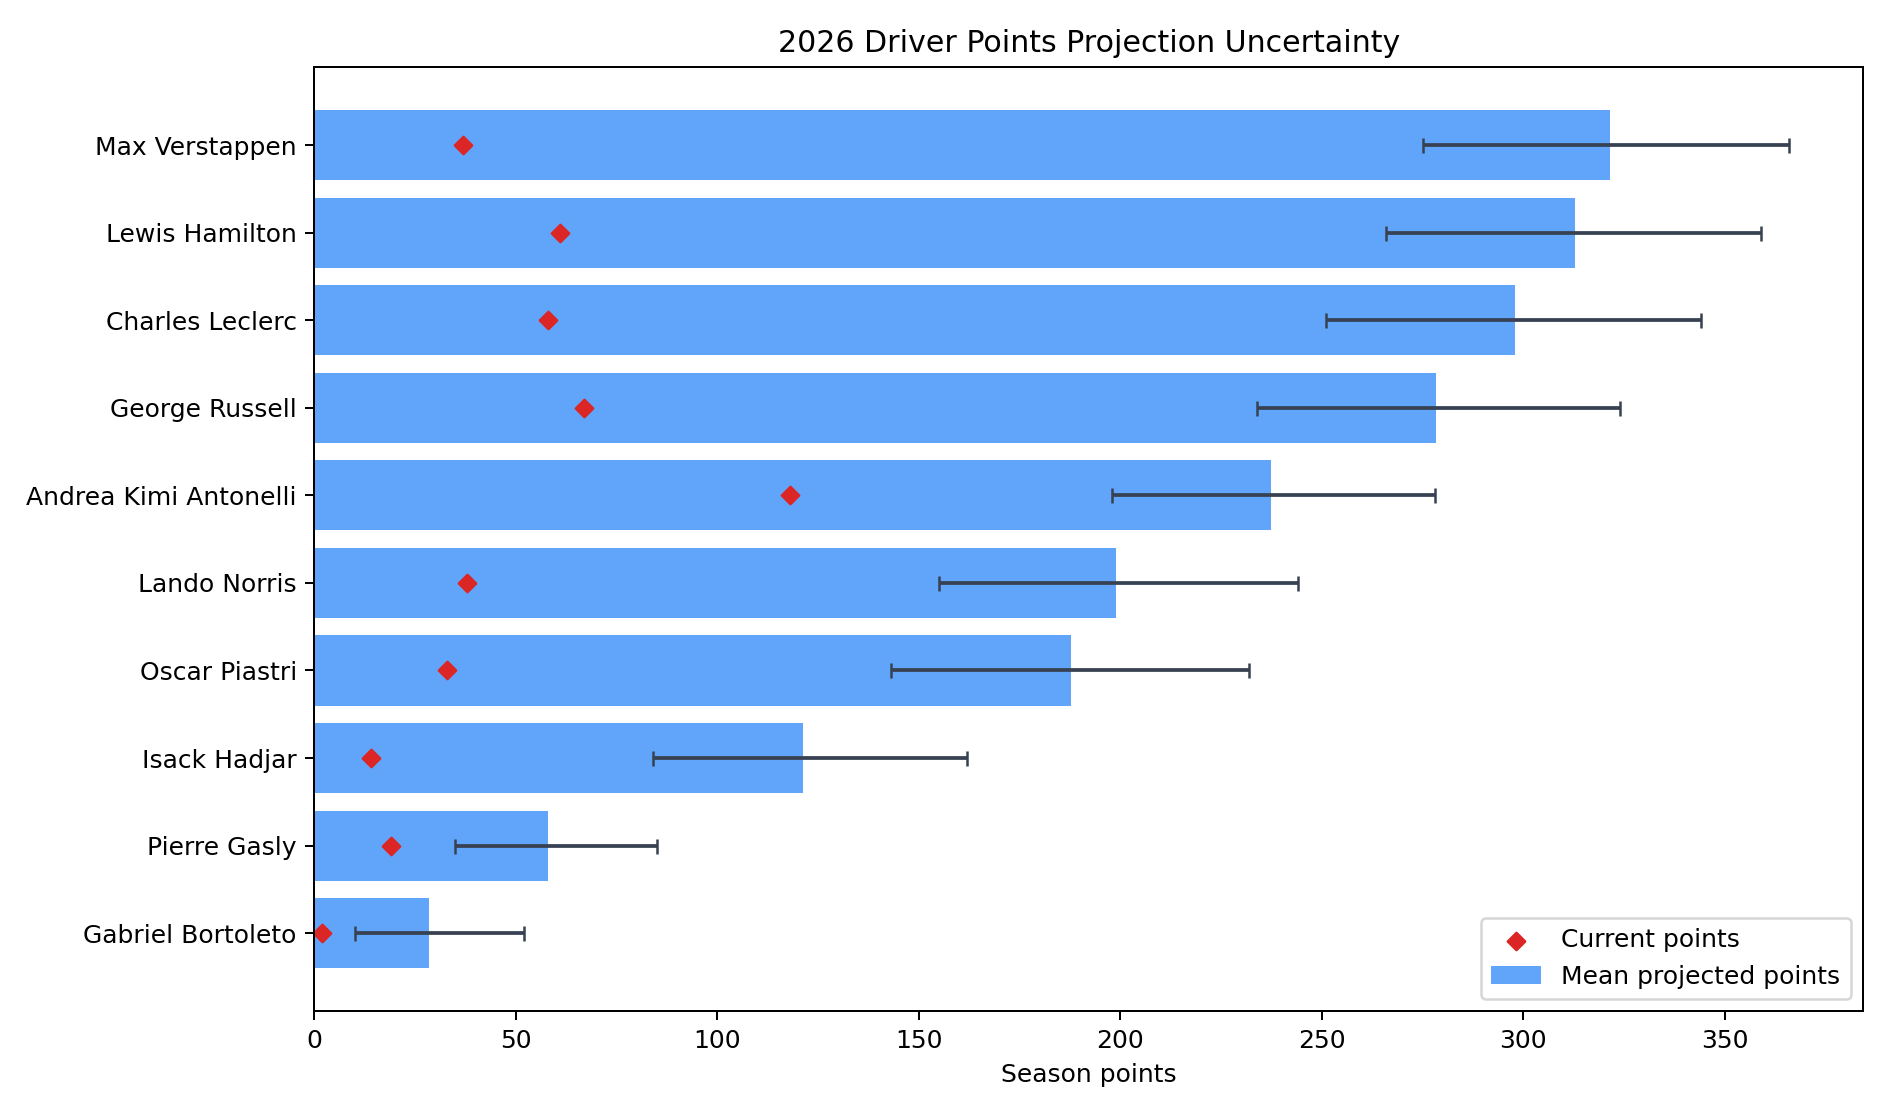
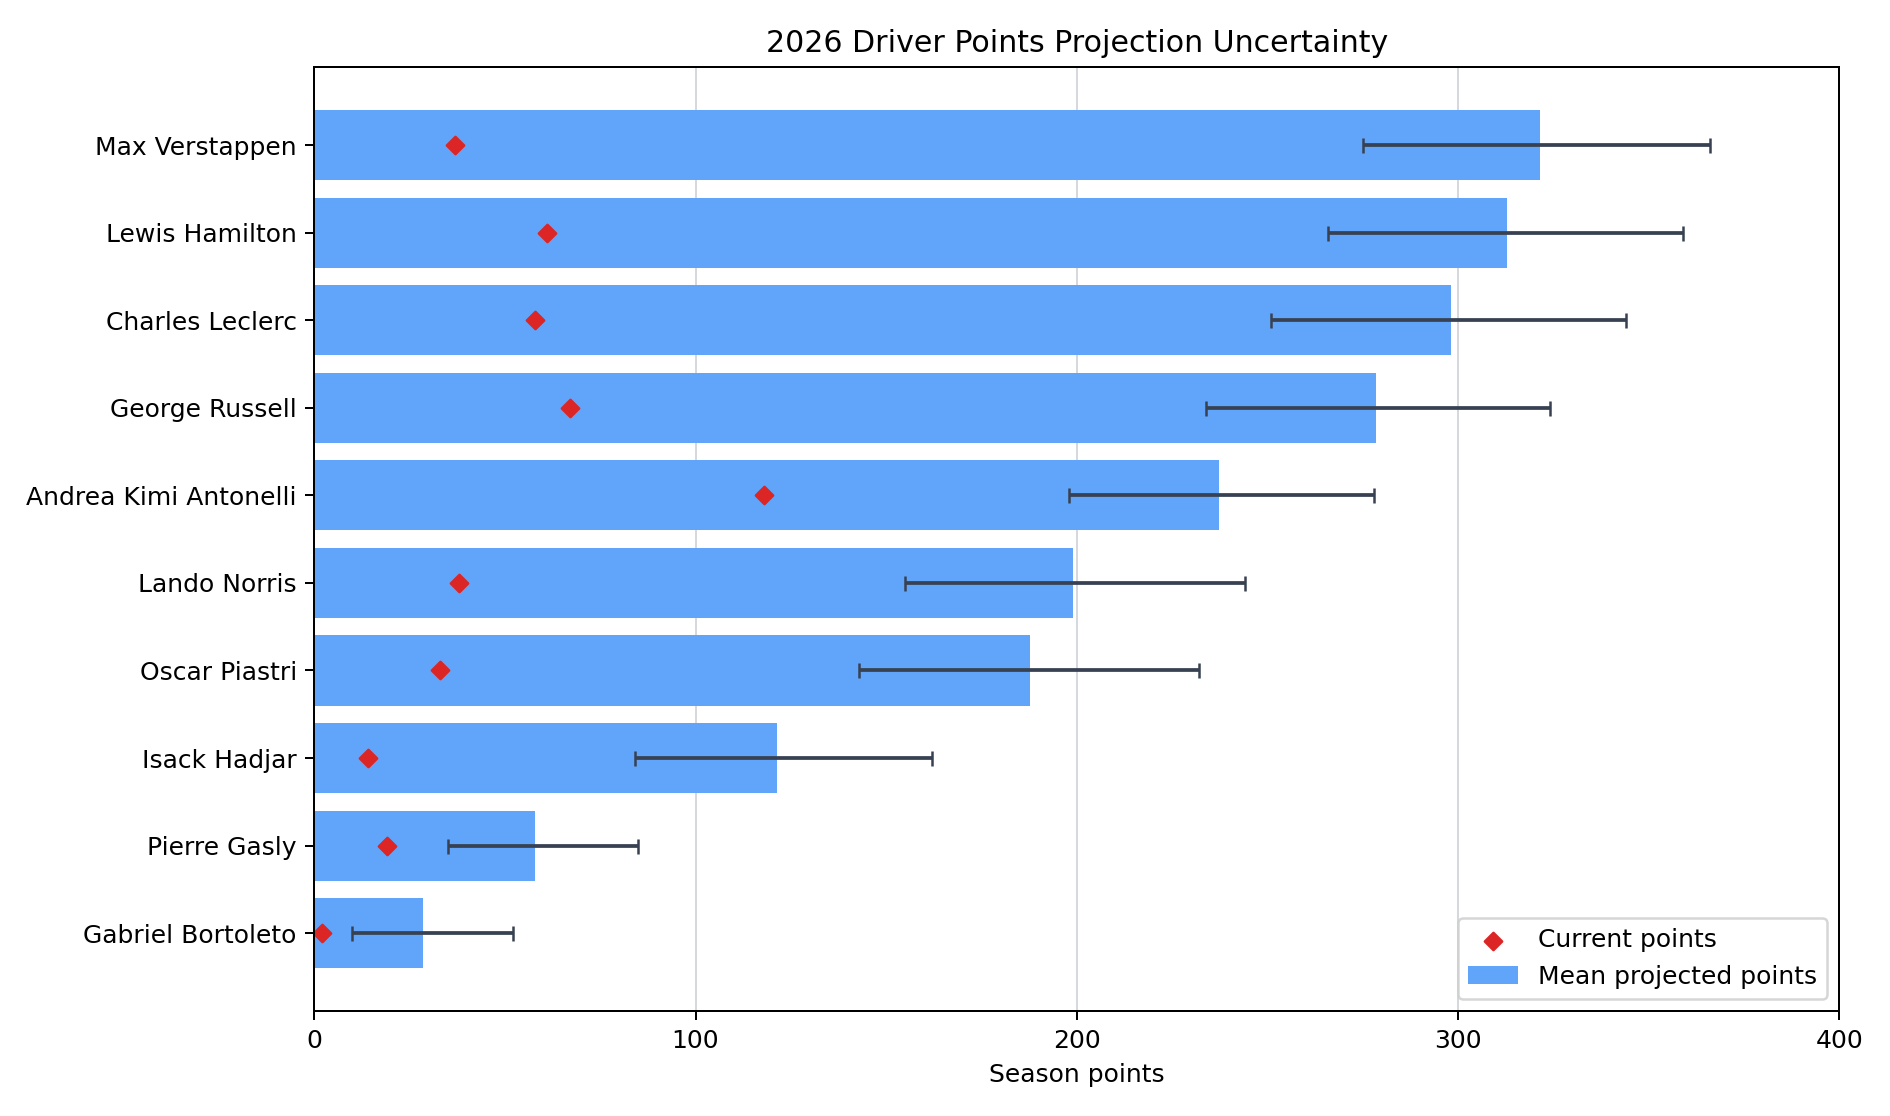
Add per-scenario 2026 prediction figures

diff --git a/predict_f1_2026_championship.py b/predict_f1_2026_championship.py
@@ -773,6 +773,12 @@ def save_points_uncertainty_chart(rows, label_field, filename, title):
     ax.scatter(current, labels, color="#DC2626", marker="D", s=24, label="Current points")
     ax.set_xlabel("Season points")
     ax.set_title(title)
+    upper_limit = max(float(np.max(p95)) if len(p95) else 0.0, float(np.max(means)) if len(means) else 0.0)
+    tick_max = int(np.ceil(upper_limit / 100.0) * 100)
+    if tick_max >= 100:
+        ax.set_xticks(np.arange(0, tick_max + 100, 100))
+    ax.grid(axis="x", color="#D1D5DB", linewidth=0.8, alpha=0.9)
+    ax.set_axisbelow(True)
     ax.legend(loc="lower right")
     fig.tight_layout()
     output_path = FIGURE_DIR / filename
@@ -950,6 +956,7 @@ def main():
     scenario_constructor_rows = []
     scenario_race_rows = []
     scenario_summary_rows = []
+    scenario_results = []
     primary_result = None
 
     for scenario in scenarios:
@@ -985,6 +992,13 @@ def main():
         scenario_race_rows.extend(add_scenario_fields(deterministic_race_rows, scenario))
         scenario_summary_rows.extend(
             build_scenario_summary_rows(driver_rows, constructor_rows, scenario)
+        )
+        scenario_results.append(
+            {
+                "scenario": scenario,
+                "driver_rows": driver_rows,
+                "constructor_rows": constructor_rows,
+            }
         )
 
         if scenario["scenario_rank"] == 1:
@@ -1047,6 +1061,43 @@ def main():
         ),
         save_model_scenario_comparison_chart(scenario_summary_rows),
     ]
+    for result in scenario_results:
+        scenario = result["scenario"]
+        scenario_rank = scenario["scenario_rank"]
+        scenario_label = (
+            f"Scenario {scenario_rank}: "
+            f"{scenario['top10_model']} + {scenario['points_model']}"
+        )
+        figure_paths.extend(
+            [
+                save_champion_probability_chart(
+                    result["driver_rows"],
+                    "driver_name",
+                    "champion_probability",
+                    f"season_prediction_s{scenario_rank}_driver_champion_2026.png",
+                    f"2026 Driver Champion Probability - {scenario_label}",
+                ),
+                save_champion_probability_chart(
+                    result["constructor_rows"],
+                    "constructor_name",
+                    "champion_probability",
+                    f"season_prediction_s{scenario_rank}_constructor_champion_2026.png",
+                    f"2026 Constructor Champion Probability - {scenario_label}",
+                ),
+                save_points_uncertainty_chart(
+                    result["driver_rows"],
+                    "driver_name",
+                    f"season_prediction_s{scenario_rank}_driver_points_uncertainty_2026.png",
+                    f"2026 Driver Points Projection - {scenario_label}",
+                ),
+                save_points_uncertainty_chart(
+                    result["constructor_rows"],
+                    "constructor_name",
+                    f"season_prediction_s{scenario_rank}_constructor_points_uncertainty_2026.png",
+                    f"2026 Constructor Points Projection - {scenario_label}",
+                ),
+            ]
+        )
     update_model_figure_manifest(
         [
             str(DRIVER_OUTPUT_PATH.relative_to(BASE_DIR)),

diff --git a/outputs/OUTPUTS_DESCRIPTION.md b/outputs/OUTPUTS_DESCRIPTION.md
@@ -595,3 +595,24 @@ Use in report: final constructor standings uncertainty analysis.
 Compares 2026 driver and constructor champion probabilities across the top three pre-race model scenarios. Each scenario pairs the same-rank Top 10 classifier and points regressor from prior validation metrics.
 
 Use in report: robustness comparison of final championship predictions under different high-performing model choices.
+
+#### Per-Scenario 2026 Prediction Figures
+
+The following figures repeat the same four final-prediction views for each top-three model scenario:
+
+- [`figures/season_prediction_s1_driver_champion_2026.png`](figures/season_prediction_s1_driver_champion_2026.png)
+- [`figures/season_prediction_s1_constructor_champion_2026.png`](figures/season_prediction_s1_constructor_champion_2026.png)
+- [`figures/season_prediction_s1_driver_points_uncertainty_2026.png`](figures/season_prediction_s1_driver_points_uncertainty_2026.png)
+- [`figures/season_prediction_s1_constructor_points_uncertainty_2026.png`](figures/season_prediction_s1_constructor_points_uncertainty_2026.png)
+- [`figures/season_prediction_s2_driver_champion_2026.png`](figures/season_prediction_s2_driver_champion_2026.png)
+- [`figures/season_prediction_s2_constructor_champion_2026.png`](figures/season_prediction_s2_constructor_champion_2026.png)
+- [`figures/season_prediction_s2_driver_points_uncertainty_2026.png`](figures/season_prediction_s2_driver_points_uncertainty_2026.png)
+- [`figures/season_prediction_s2_constructor_points_uncertainty_2026.png`](figures/season_prediction_s2_constructor_points_uncertainty_2026.png)
+- [`figures/season_prediction_s3_driver_champion_2026.png`](figures/season_prediction_s3_driver_champion_2026.png)
+- [`figures/season_prediction_s3_constructor_champion_2026.png`](figures/season_prediction_s3_constructor_champion_2026.png)
+- [`figures/season_prediction_s3_driver_points_uncertainty_2026.png`](figures/season_prediction_s3_driver_points_uncertainty_2026.png)
+- [`figures/season_prediction_s3_constructor_points_uncertainty_2026.png`](figures/season_prediction_s3_constructor_points_uncertainty_2026.png)
+
+Scenario 1 uses `xgboost_classifier + mlp_regressor`, Scenario 2 uses `lightgbm_classifier + ridge_regression`, and Scenario 3 uses `hist_gradient_boosting + catboost_regressor`.
+
+Use in report: detailed per-model comparison of champion probabilities and final-points uncertainty.
